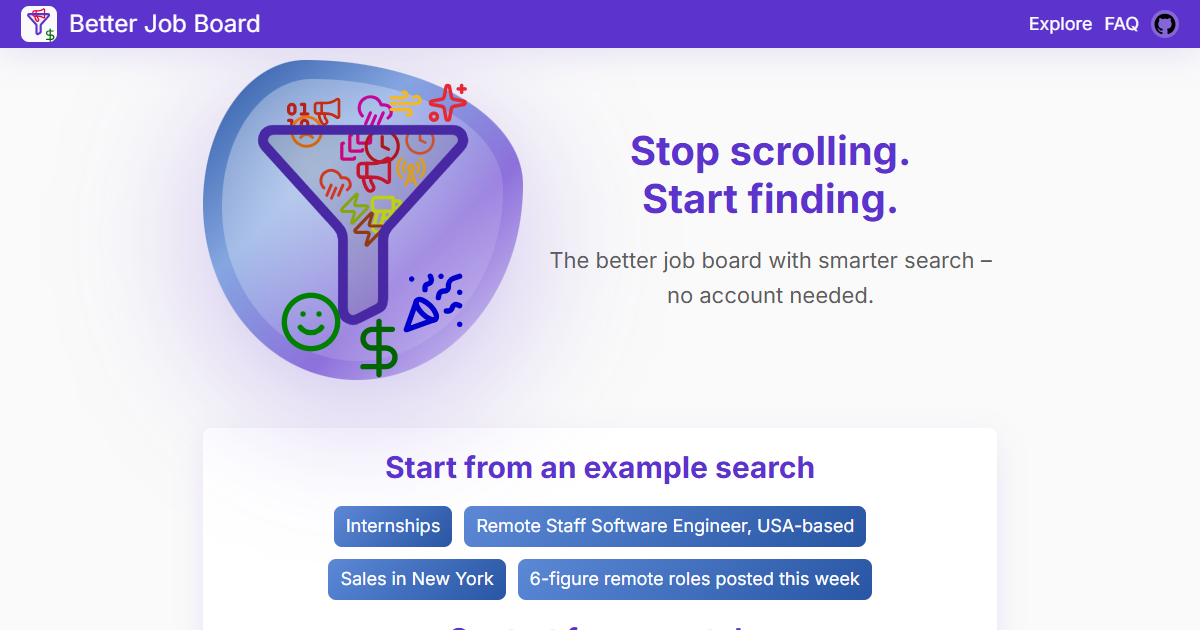
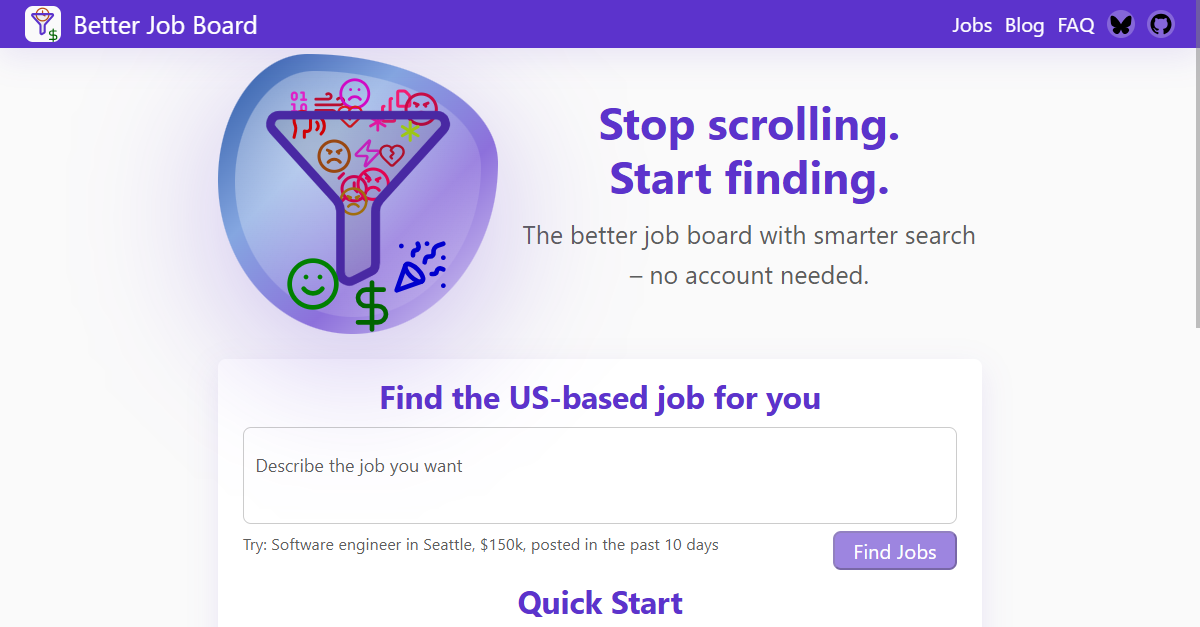
update og-image and readme screenshots

diff --git a/README.md b/README.md
@@ -82,16 +82,20 @@ production server wrappers.
 
 ## Screenshots
 
-UI Snapshots from December 8, 2025
+UI Snapshots from June 8, 2026
 
 ### Home Page
 
-![Home page from 12/8/25](screenshots/12_8_25_Home.png)
+![Home page from 6/8/26](screenshots/6_8_26_Home.jpg)
 
-### Explore Page
+### Jobs Page
 
-![Explore page from 12/8/25](screenshots/12_8_25_Explore.png)
+![Explore page from 6/8/26](screenshots/6_8_26_Jobs.jpg)
+
+### Blog Page
+
+![Blog page from 6/8/26](screenshots/6_8_26_Blog.jpg)
 
 ### FAQ Page
 
-![FAQ page from 12/8/25](screenshots/12_8_25_FAQ.png)
+![FAQ page from 6/8/26](screenshots/6_8_26_FAQ.jpg)